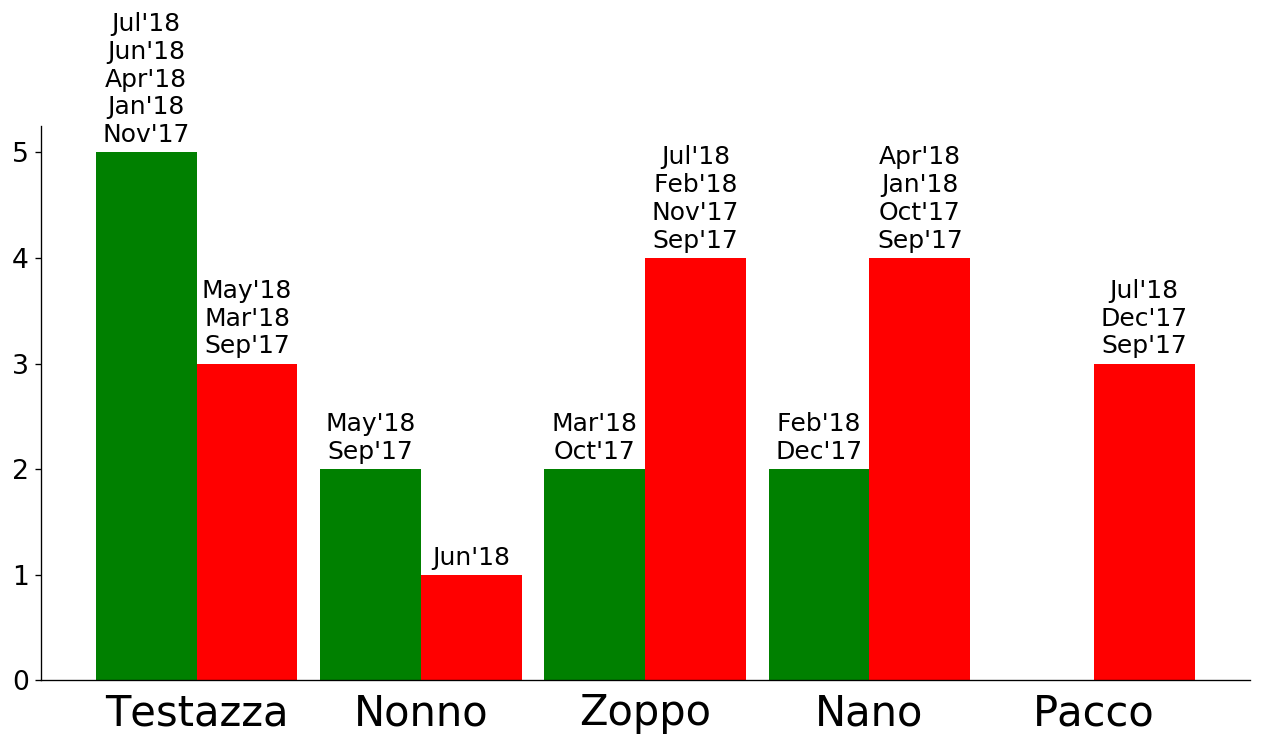
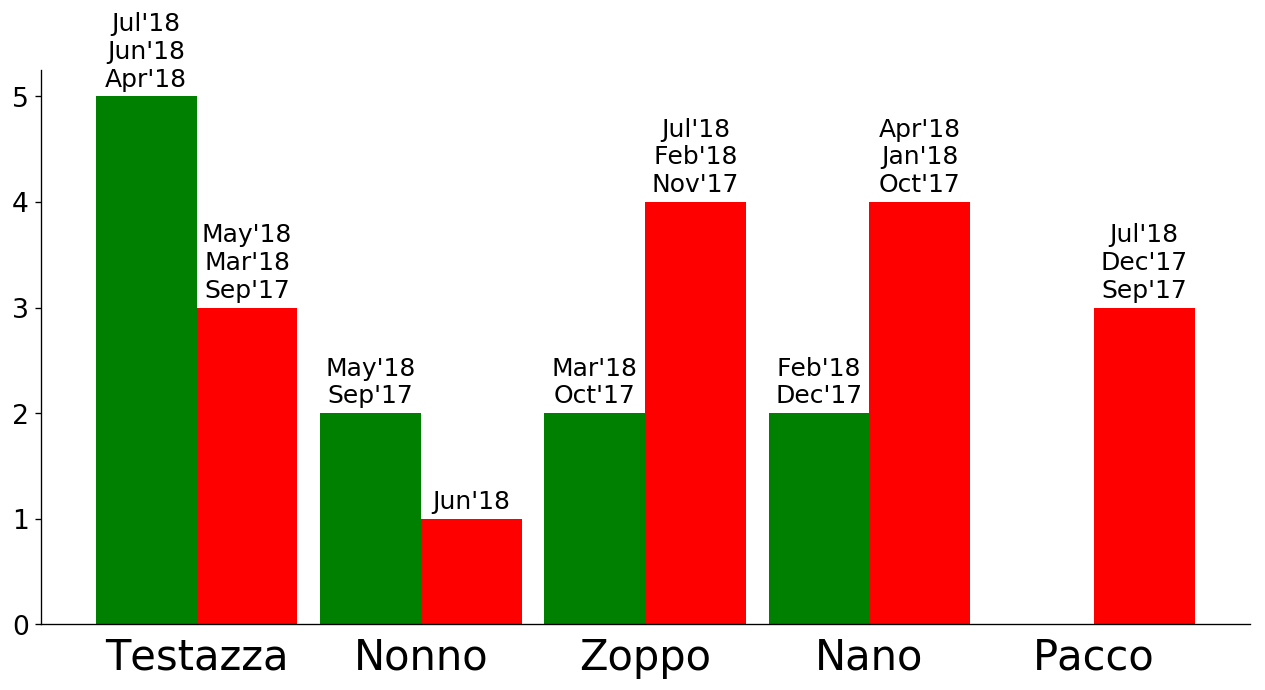
not relevant

diff --git a/Classes.py b/Classes.py
@@ -7,11 +7,9 @@ import matplotlib.pyplot as plt
 from itertools import groupby, count
 
 
-db, c = dbf.start_db()
-colors_dict = list(c.execute('''SELECT color_user, color_value FROM colors'''))
-colors_dict = {el[0]: el[1] for el in colors_dict}
+colors = dbf.db_select(table='colors', columns_out=['color_id'])
+colors_dict = {el[0]: el[1] for el in colors}
 partecipants = [el for el in colors_dict]
-db.close()
 
 
 class Player(object):
@@ -360,7 +358,7 @@ def stats_of_the_month():
 
 		for x in range(5):
 			dict1[names[x]].reverse()
-			message = '\n'.join(dict1[names[x]])
+			message = '\n'.join(dict1[names[x]][:3])
 
 			plt.text(bars1[x].get_x() + bars1[x].get_width() / 2,
 			         bars1[x].get_height() + 0.05, message, ha='center',
@@ -368,7 +366,7 @@ def stats_of_the_month():
 
 		for x in range(5):
 			dict2[names[x]].reverse()
-			message = '\n'.join(dict2[names[x]])
+			message = '\n'.join(dict2[names[x]][:3])
 
 			plt.text(bars2[x].get_x() + bars2[x].get_width() / 2,
 			         bars2[x].get_height() + 0.05, message, ha='center',

diff --git a/Functions/stats_functions.py b/Functions/stats_functions.py
@@ -4,11 +4,9 @@ import matplotlib
 matplotlib.use('Agg')
 import Classes as cl
 
-db, c = dbf.start_db()
-colors_dict = list(c.execute('''SELECT color_user, color_value FROM colors'''))
-colors_dict = {el[0]: el[1] for el in colors_dict}
+colors = dbf.db_select(table='colors', columns_out=['color_id'])
+colors_dict = {el[0]: el[1] for el in colors}
 partecipants = [el for el in colors_dict]
-db.close()
 
 
 def abs_perc():

diff --git a/Functions/selenium_functions.py b/Functions/selenium_functions.py
@@ -727,6 +727,7 @@ def refresh_money(browser):
 	for i in range(recurs_lim):
 		try:
 			wait_clickable(browser, WAIT, refresh_path)
+			break
 		except TimeoutException:
 			logger.info('REFRESH MONEY - Refresh money button not found')
 			if i < 2:
